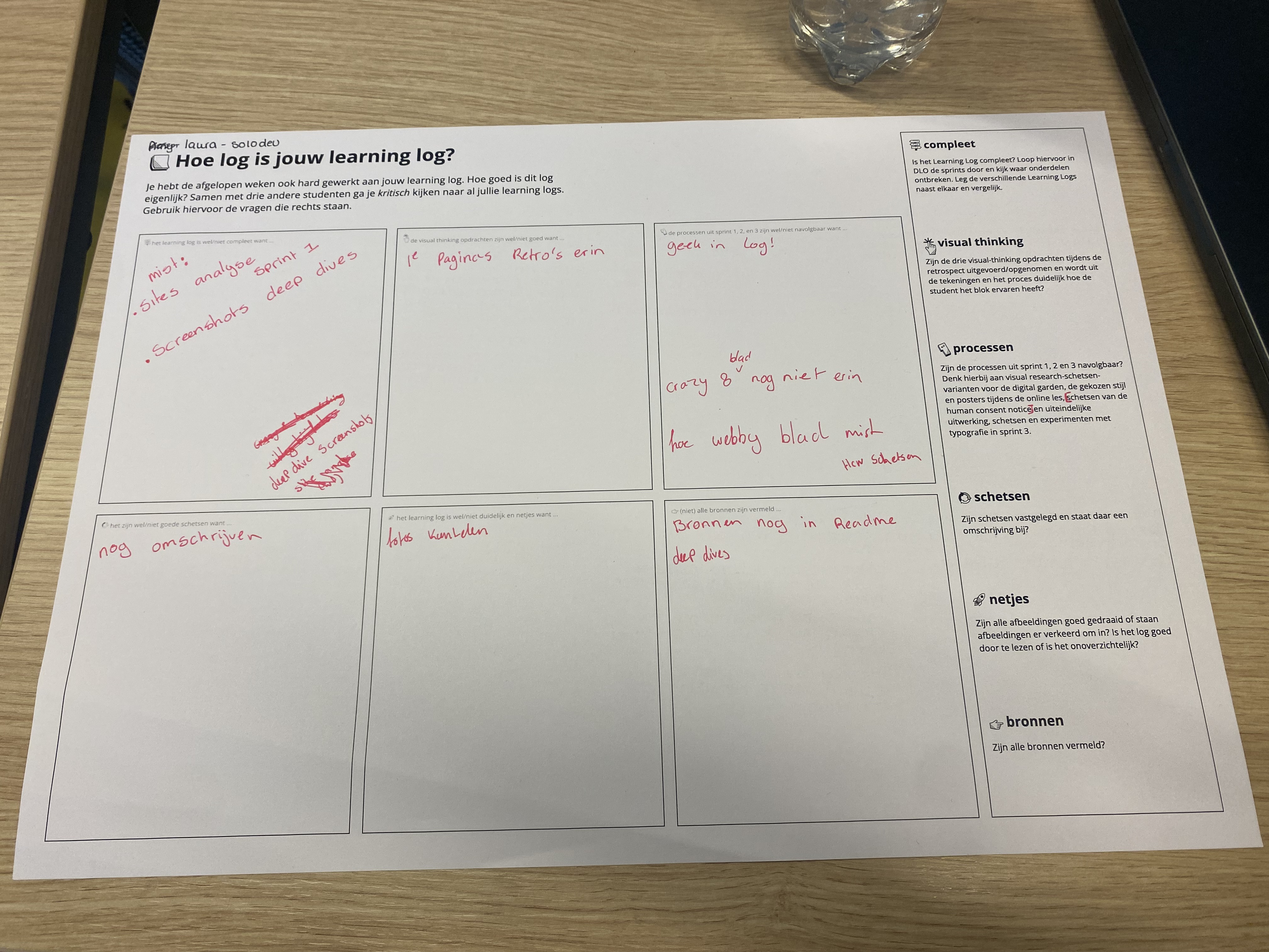
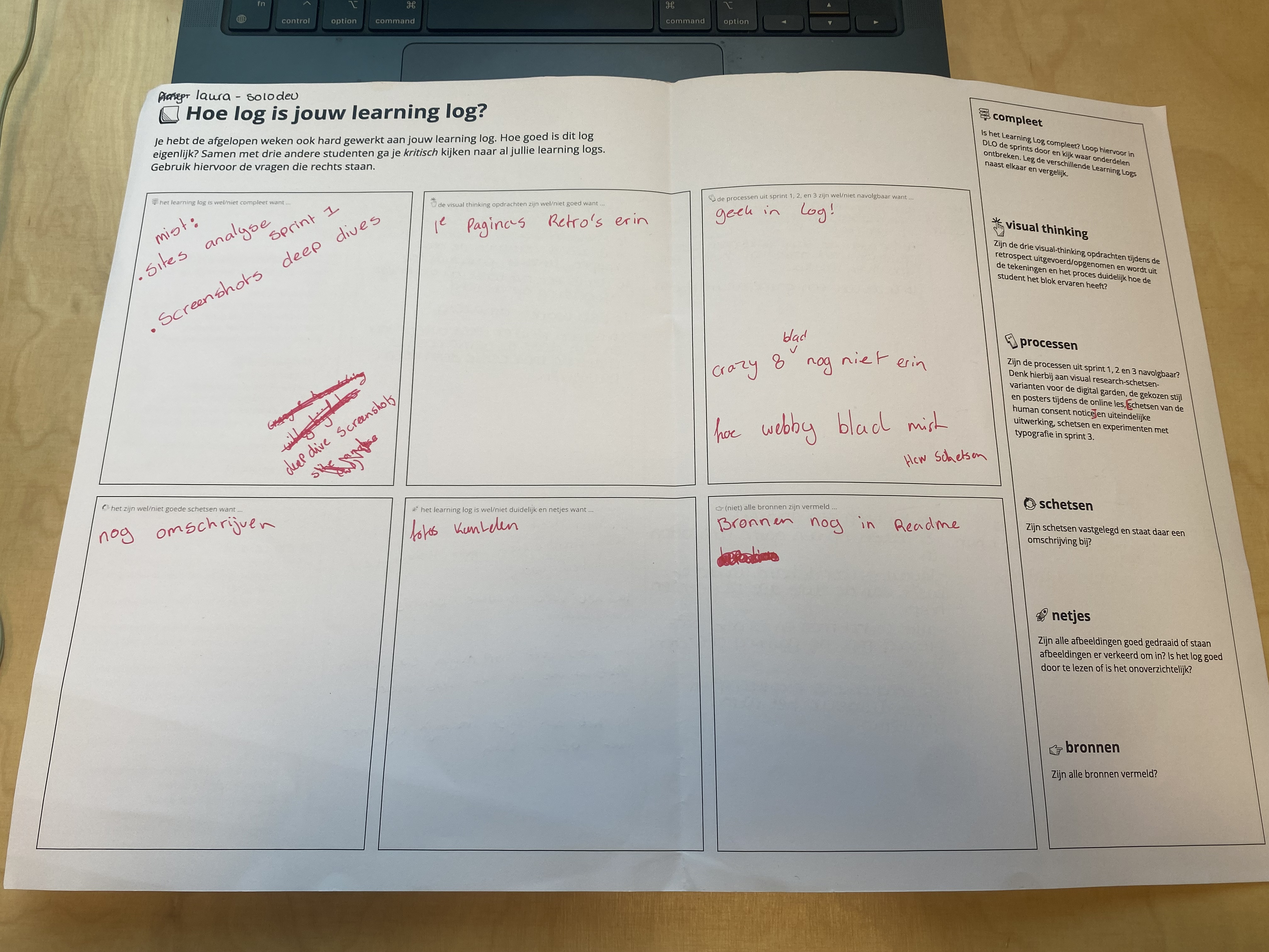
readme

diff --git a/README.md b/README.md
@@ -73,6 +73,9 @@ een schets van mijn inventory panel, gebaseerd op inventory/menu pages in oude g
 een meer uitgewerkte versie van mijn about me page, aan deze ben ik best loyaal gebleven qua uitwerking. deze is gemaakt nadat ik nog meer wou toevoegen aan mijn al bestaande about me page. Het belangrijkste van deze schets was hoe ik een stuk tekst over mijzelf wou vormgeven.
 ![schetsen](/assets/images/readmeimg/schetsen4.jpeg)
 
+Zoals je kan zien, heb ik deze schetsen nooit afgemaakt. Ik denk dat ik ermee was begonnen op school en het helemaal vergeten was toen ik thuis aankwam... maar dit blad had eigenlijk een soort walkthrough van mijn site moeten zijn. Helaas ben ik niet verder dan mijn about me pagina gekomen...
+![schetsen die ik nooit heb afgemaakt...](/assets/images/readmeimg/schetsnietaf.jpeg)
+
 ### 23 okt - feedback en retrospective
 
 ![blad1](/assets/images/readmeimg/retro3c.jpeg)
@@ -160,6 +163,9 @@ Hoeveel gekkigheid moet er in je werk zitten?
   ![eerste versie](/assets/images/readmeimg/lyrics2.png)
 
 ### 5 okt - Start sprint 3
+
+Met mijn groepje hebben wij een artikel gelezen en samengevat over de Modular scale
+![notities modular scale artikel](/assets/images/readmeimg/modularnotes.jpeg)
 
 Ik heb gekozen om te werken met 'intergalactic' van de Beastie Boys
 ![Lyric schetsen](/assets/images/readmeimg/lyrics.png)
@@ -362,7 +368,21 @@ Ik heb de deep dive voor light & dark mode doorgenomen
 
 ### 7 sept - Checkout
 
-samen met Susanne en Katey hebben wij gekeken naar welke gardens die we hebben bekeken het meest en minst 'webby' zijn.
+Met een groepje hebben wij een artikel gelezen 'A brief history & ethos of the digital garden'.
+hieronder staan mijn notities en een samenvatting in 6 zinnen die samen met het groepje is gemaakt
+![notities](/assets/images/readmeimg/note1.jpeg)
+![notities](/assets/images/readmeimg/note2.jpeg)
+![notities](/assets/images/readmeimg/note3.jpeg)
+![notities](/assets/images/readmeimg/note4.jpeg)
+![samenvatting in 6 zinnen](/assets/images/readmeimg/note5.jpeg)
+
+De sites die ik heb bekeken waren Melonland en Rocktype.
+Mijn vel was alleen best beschadigd geraakt onderweg naar huis...
+![beschadigd analyse vel](/assets/images/readmeimg/dmganalyse.jpeg)
+dus heb ik hem digitaal nog een keer uitgewerkt:
+![digitaal analyse vel](/assets/images/readmeimg/analysevel.png)
+
+samen met Susanne en Katey hebben wij gekeken naar welke gardens die we hebben bekeken het meest en minst 'webby' zijn van de sites die we hebben geanalyseerd
 ![meest v minst webby blad](/assets/images/readmeimg/meestvminst.jpeg)
 
 VRAAG: Leg uit wat een digital garden is en waarom dat anders is dan een reguliere website.
